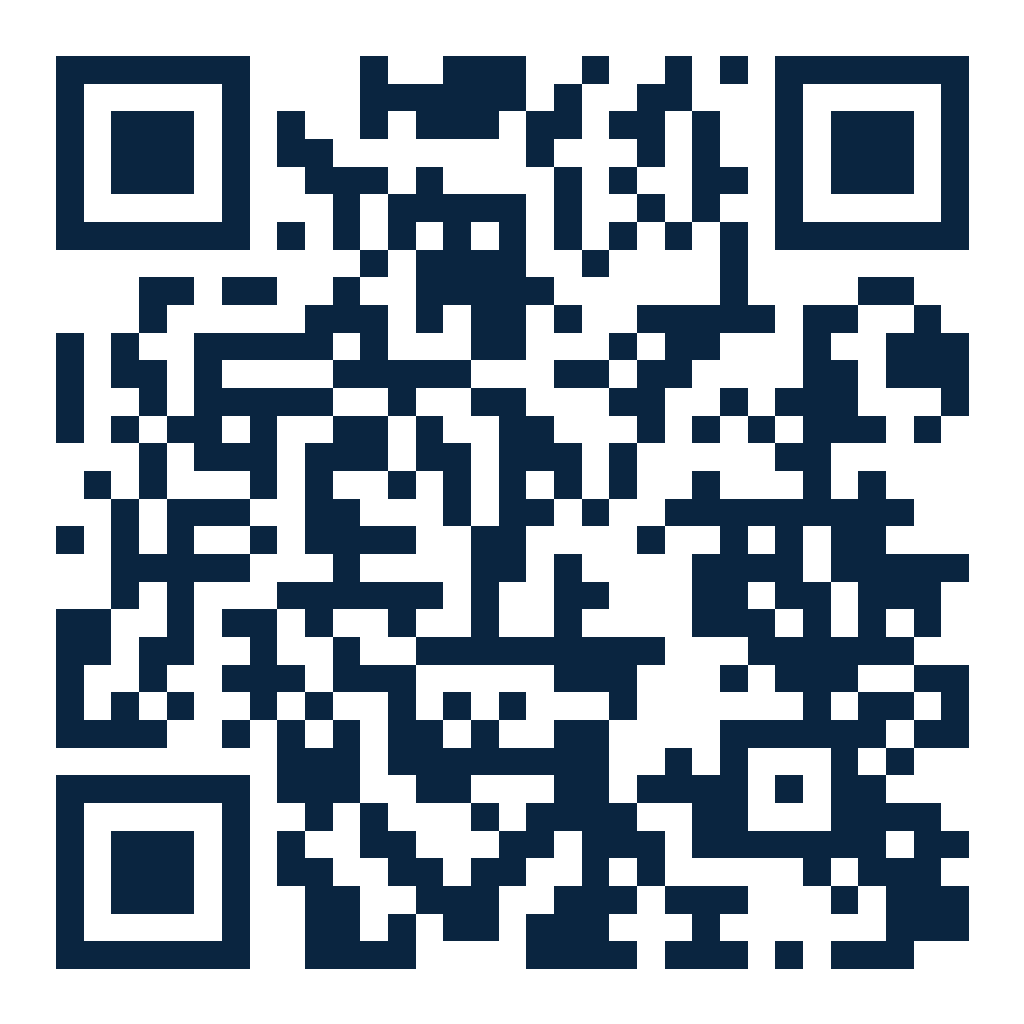
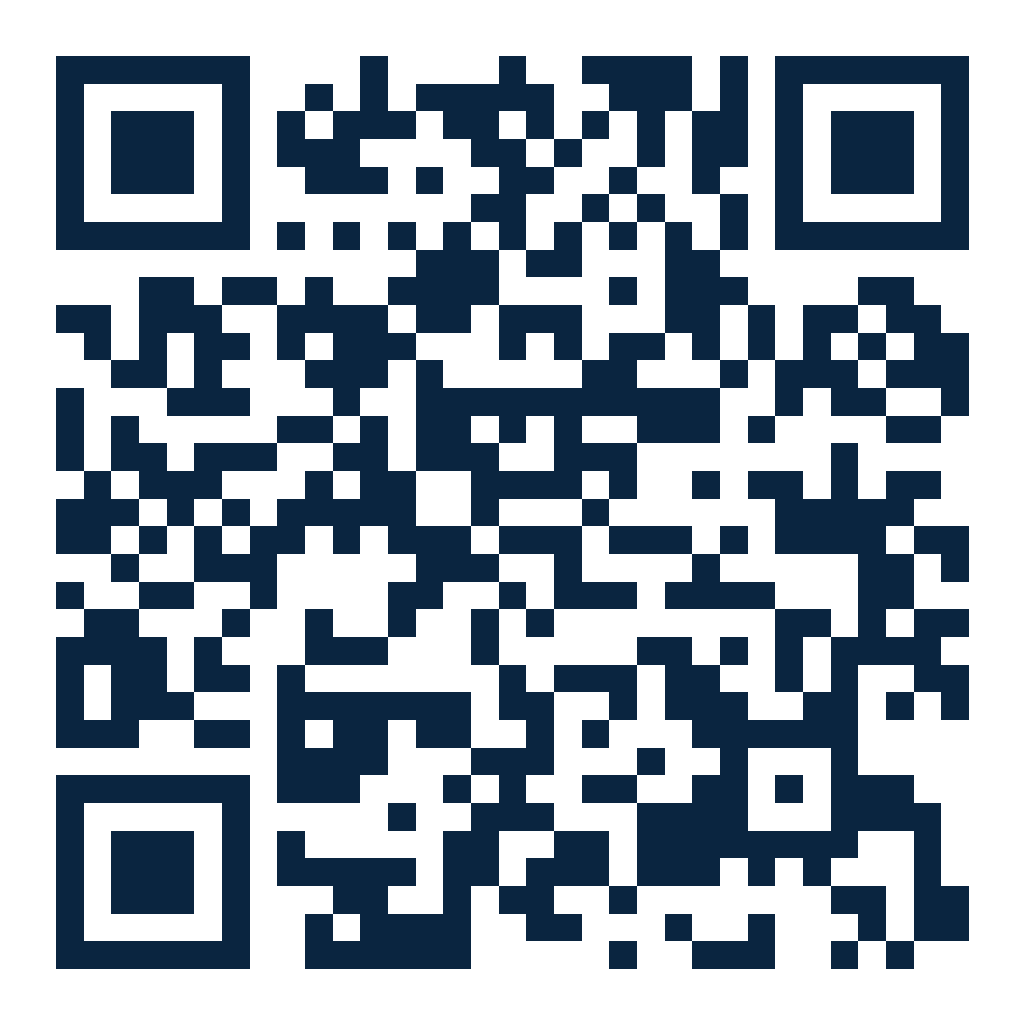
Fix: QR코드를 https 주소로 재생성 (http QR이 모바일 인증 차단 유발) — 3종 판독 검증 완료

Changed region(s): [[0.0312, 0.0312, 0.9688, 0.9688], [0.8125, 0.8125, 0.9688, 0.9688]]

diff --git a/make_qr.js b/make_qr.js
@@ -1,10 +1,7 @@
 const QR = require('qrcode');
 
-// NOTE: GitHub Pages 커스텀 도메인의 SSL 인증서가 아직 발급되지 않아
-// HTTPS 접속 시 인증서 오류 발생. HTTP로 생성해 모바일 카메라 스캔 시 즉시 접속되도록 함.
-// (GitHub repo Settings → Pages → "Enforce HTTPS" 체크박스 활성화로 SSL 발급 후
-//  https로 변경 가능)
-const url = 'http://www.howonrise.co.kr';
+// https 필수: http로 열리면 계정 인증(CORS)이 차단됨 (2026-07 계정 게이트 도입)
+const url = 'https://www.howonrise.co.kr';
 
 const variants = [
   { file: 'qr-howonrise.png',       width: 1024, dark: '#0A2540', light: '#FFFFFF' },  // Tanker 네이비 (웹/디자인용)
@@ -14,7 +11,7 @@ const variants = [
 
 (async () => {
   for (const v of variants) {
-    const out = `E:/2025 RISE 결과보고서/성과관리플랫폼/${v.file}`;
+    const out = `${__dirname}/${v.file}`;
     await QR.toFile(out, url, {
       errorCorrectionLevel: 'H',
       margin: 2,

diff --git a/admin-app/dashboard/index.html b/admin-app/dashboard/index.html
@@ -41,11 +41,11 @@
       <div id="ai-panel"></div>
 
       <div class="qr-box" aria-label="플랫폼 접속 QR">
-        <img src="qr-howonrise-small.png?v=3" alt="호원 앵커(RISE) 플랫폼 QR" width="120" height="120" />
+        <img src="qr-howonrise-small.png?v=4" alt="호원 앵커(RISE) 플랫폼 QR" width="120" height="120" />
         <div class="qr-meta">
           <div class="qr-label">스마트폰 접속</div>
           <div class="qr-url">www.howonrise.co.kr</div>
-          <a class="qr-dl" href="qr-howonrise.png?v=3" download="호원앵커RISE_QR.png">고해상도 PNG 저장 ↓</a>
+          <a class="qr-dl" href="qr-howonrise.png?v=4" download="호원앵커RISE_QR.png">고해상도 PNG 저장 ↓</a>
         </div>
       </div>
 

diff --git a/index.html b/index.html
@@ -41,11 +41,11 @@
       <div id="ai-panel"></div>
 
       <div class="qr-box" aria-label="플랫폼 접속 QR">
-        <img src="qr-howonrise-small.png?v=3" alt="호원 앵커(RISE) 플랫폼 QR" width="120" height="120" />
+        <img src="qr-howonrise-small.png?v=4" alt="호원 앵커(RISE) 플랫폼 QR" width="120" height="120" />
         <div class="qr-meta">
           <div class="qr-label">스마트폰 접속</div>
           <div class="qr-url">www.howonrise.co.kr</div>
-          <a class="qr-dl" href="qr-howonrise.png?v=3" download="호원앵커RISE_QR.png">고해상도 PNG 저장 ↓</a>
+          <a class="qr-dl" href="qr-howonrise.png?v=4" download="호원앵커RISE_QR.png">고해상도 PNG 저장 ↓</a>
         </div>
       </div>
 
